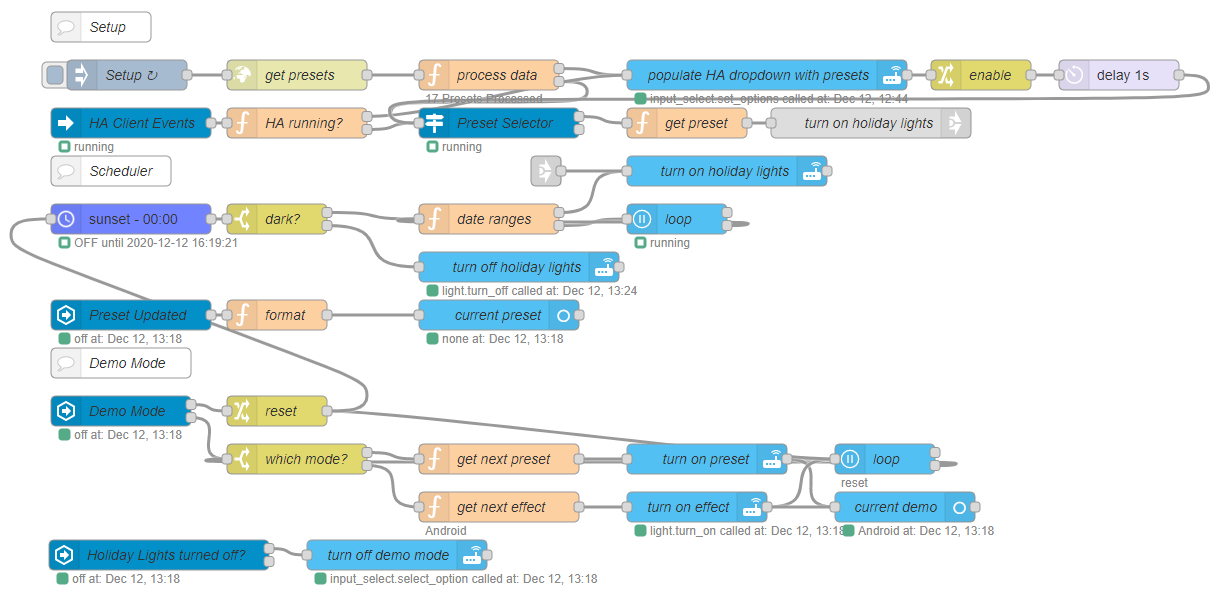
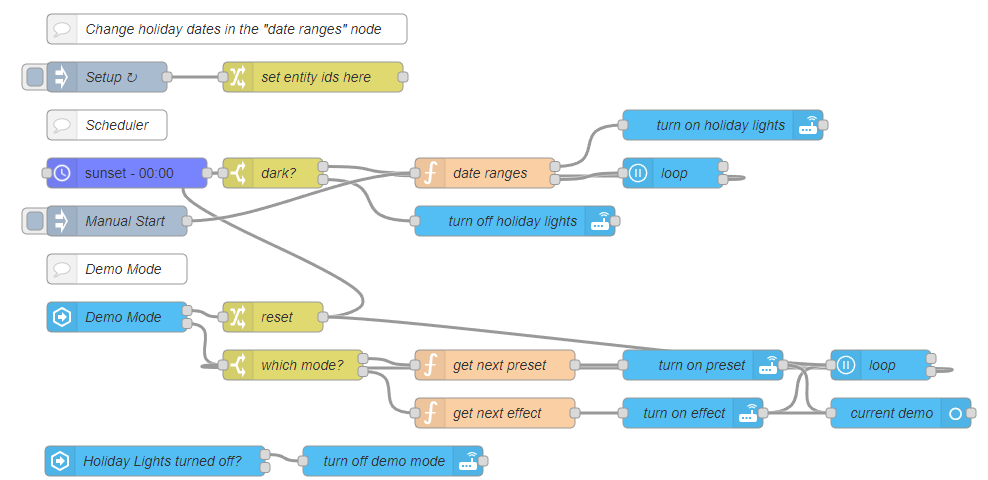
docs(cookbook): Update Holiday Lights example

diff --git a/docs/cookbook/holiday-lights-scheduler-and-demo-mode-for-wled.md b/docs/cookbook/holiday-lights-scheduler-and-demo-mode-for-wled.md
@@ -10,14 +10,25 @@ The holiday lights turn on each day at sunset and then off at midnight. It uses 
 
 ![screenshot of flow](./images/holiday-lights-scheduler-and-demo-mode-for-wled_01.png)
 
-<<< @/examples/cookbook/holiday-lights-scheduler-and-demo-mode-for-wled/holiday-lights-scheduler-and-demo-mode-for-wled.json
+### Version 1
 
-## Requirements
+<<< @/examples/cookbook/holiday-lights-scheduler-and-demo-mode-for-wled/holiday-lights-scheduler-and-demo-mode-for-wled_v1.json
+
+</code-block>
+
+::: details version 0
 
 - [Home Assistant](https://home-assistant.io) v0.118+
 - [WLED](https://github.com/Aircoookie/WLED) v0.11+
 
-[Home Assistant](https://home-assistant.io) v0.118 is required for the WLED preset service. The Home Assistant nodes to control WLED could be replaced with WLED nodes to sidestep these requirements.
+<<< @/examples/cookbook/holiday-lights-scheduler-and-demo-mode-for-wled/holiday-lights-scheduler-and-demo-mode-for-wled_v0.json
+
+:::
+
+## Requirements
+
+- [Home Assistant](https://home-assistant.io) v2021.7+
+- [WLED](https://github.com/Aircoookie/WLED) v0.11+
 
 ### Integrations
 
@@ -36,7 +47,7 @@ The two entity nodes will require the Node-RED custom integration but the flow w
 
 The flow has been modified so that it should run pretty much out of the box after changing the entity id for the light and IP for the WLED controller.
 
-1. [Setting up WLED variables](#wled-variable)
+1. [Setting up WLED variables](#wled-variables)
 1. [Modifing holiday date ranges](#setting-date-ranges-up)
 1. [Creating Home Assistant entities](#home-assistant-entities)
 
@@ -44,7 +55,7 @@ The flow has been modified so that it should run pretty much out of the box afte
 
 ![screenshot of a node that needs to be editted](./images/holiday-lights-scheduler-and-demo-mode-for-wled_03.png)
 
-Edit the inject node, **Setup**, to edit the Home Assistant entity id of the holiday lights and IP address of the WLED controller. The entity of your WLED light needs to be changed in two places.
+Edit the change node, **set entity ids here**, to edit the Home Assistant entity id of the holiday lights and the select entity for presets. The entity of your WLED light needs to be changed in two places.
 
 ### Setting date ranges up
 
@@ -153,23 +164,6 @@ input_select:
 
 ![screenshot of lovelace ui](./images/holiday-lights-scheduler-and-demo-mode-for-wled_06.png)
 
-#### input_select.holiday_lights_presets
-
-```yaml
-input_select:
-  holiday_lights_presets:
-    name: Presets
-    options:
-      - none
-    icon: "mdi:animation"
-```
-
-::: tip
-This one can have any values as the options as they will get overwritten each time the WLED presets are edited in Node-RED.
-:::
-
-![screenshot of lovelace ui](./images/holiday-lights-scheduler-and-demo-mode-for-wled_07.png)
-
 ## Lovelace UI
 
 ![screenshot of lovelace ui](./images/holiday-lights-scheduler-and-demo-mode-for-wled_02.png)
@@ -178,18 +172,8 @@ This one can have any values as the options as they will get overwritten each ti
 title: Holiday Lights
 type: entities
 entities:
-  - type: conditional
-    conditions:
-      - entity: sensor.holiday_lights_current_preset
-        state_not: none
-      - entity: sensor.holiday_lights_current_preset
-        state_not: "off"
-      - entity: input_select.holiday_lights_demo_mode
-        state: "off"
-    row:
-      entity: sensor.holiday_lights_current_preset
   - entity: light.holiday_lights
-  - entity: input_select.holiday_lights_presets
+  - entity: select.holiday_lights_presets
   - type: section
     label: Demo Mode
   - type: conditional
